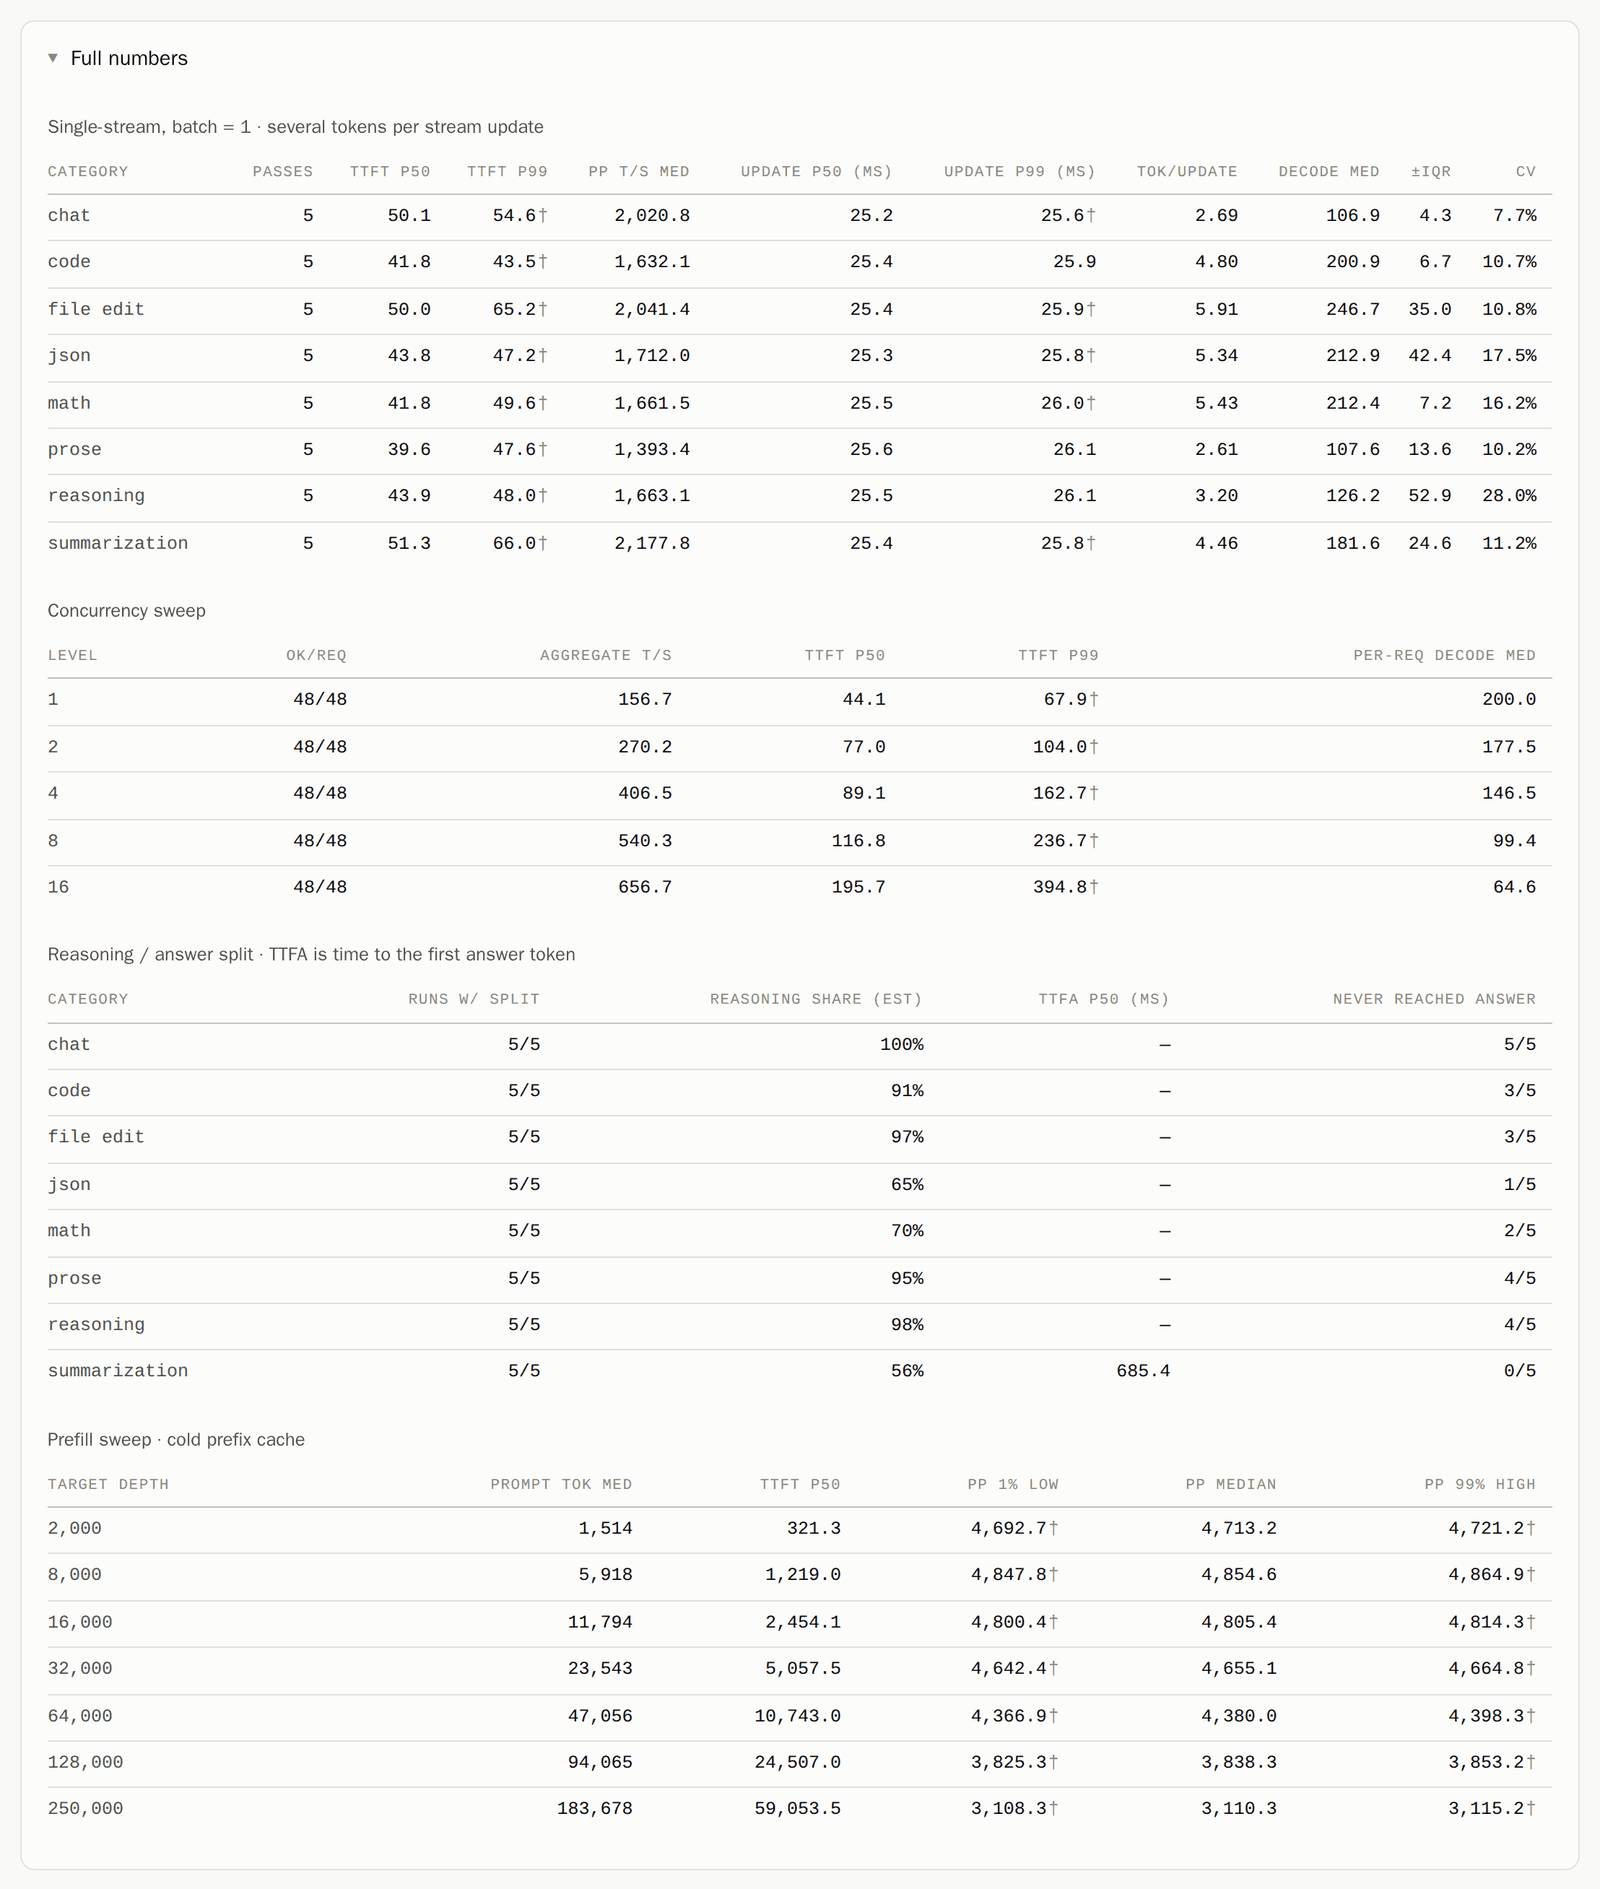
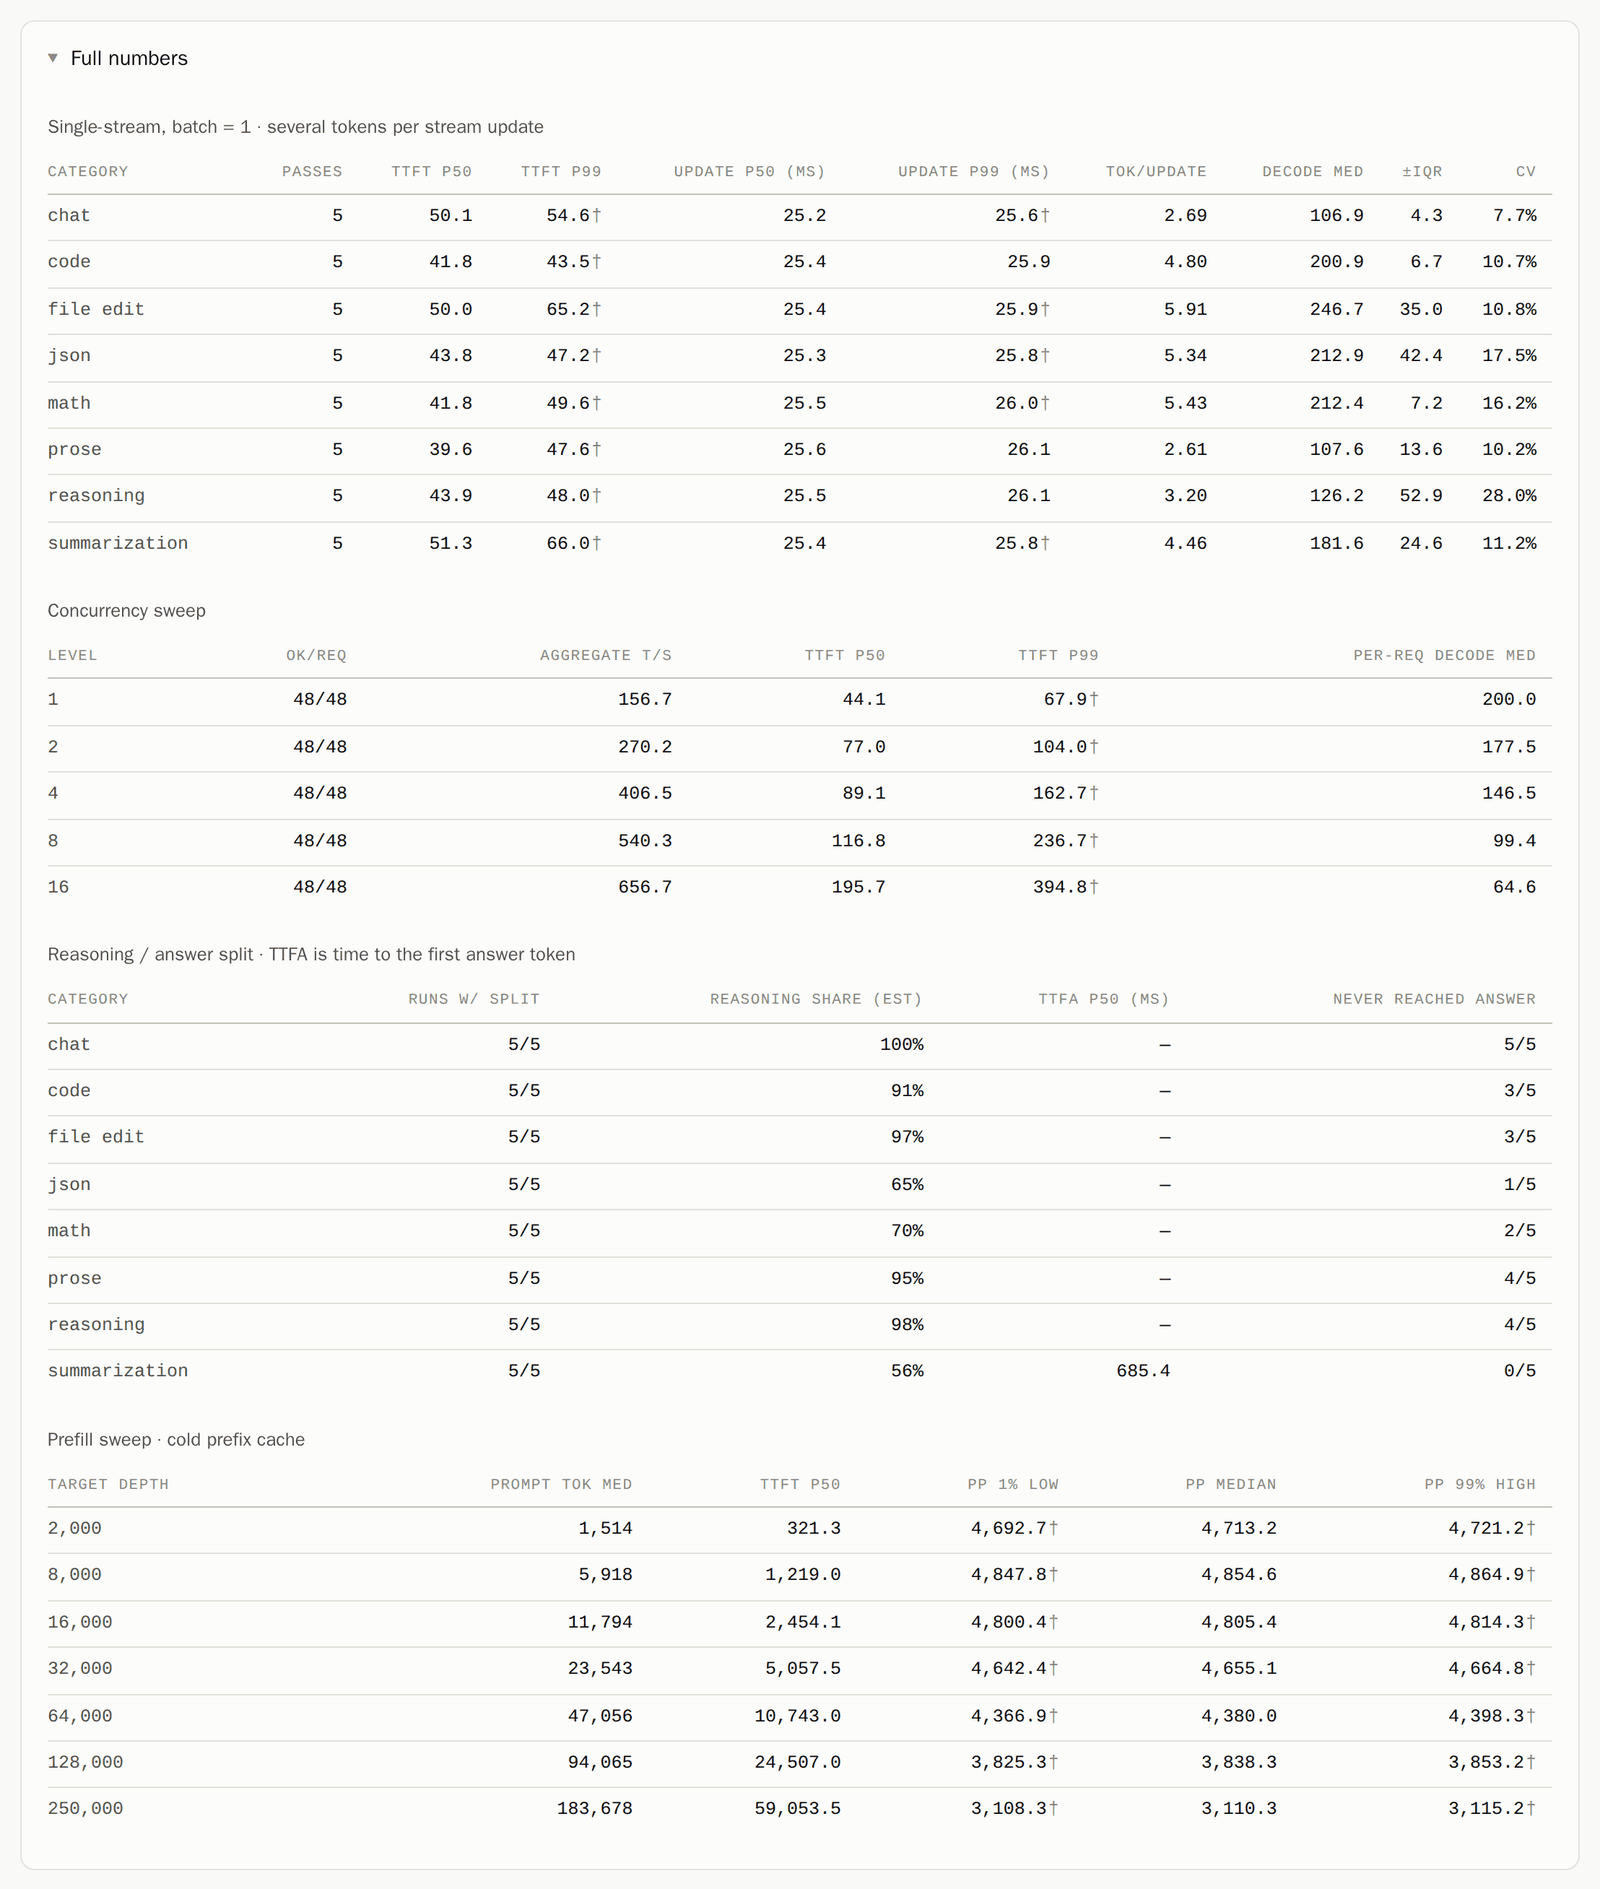
report: drop PP t/s from the single-stream table
Prompt tokens / TTFT is a fair prefill figure only when the prompt is deep
enough that prefill dominates TTFT. Over the single-stream corpus it is not:
TTFT there is mostly fixed per-request overhead, so the column read far low —
2,021 t/s for `chat` against 4,713 t/s at the 2K depth of the prefill sweep on
the same run.

Removed from the markdown and HTML single-stream tables (both the batched and
the one-token-per-update shapes) and from the derived row that fed them. The
prefill sweep is untouched, and per-run `pp_tps` is still recorded, so saved
results re-render under the new layout with no loss.

Docs and the committed example report follow.

Claude-Session: https://claude.ai/code/session_01VfNWrSzc2QgaCWzJJELSuQ

diff --git a/docs/example-report.html b/docs/example-report.html
@@ -209,16 +209,16 @@
     <div class="tscroll">
       <table>
         <caption>Single-stream, batch = 1 · several tokens per stream update</caption>
-        <thead><tr><th>category</th><th>passes</th><th>TTFT p50</th><th>TTFT p99</th><th>PP t/s med</th><th>update p50 (ms)</th><th>update p99 (ms)</th><th>tok/update</th><th>decode med</th><th>±IQR</th><th>CV</th></tr></thead>
+        <thead><tr><th>category</th><th>passes</th><th>TTFT p50</th><th>TTFT p99</th><th>update p50 (ms)</th><th>update p99 (ms)</th><th>tok/update</th><th>decode med</th><th>±IQR</th><th>CV</th></tr></thead>
         <tbody>
-<tr><td>chat</td><td>5</td><td>50.1</td><td>54.6<span class="thin" title="under-sampled percentile — see the note below the tables">†</span></td><td>2,020.8</td><td>25.2</td><td>25.6<span class="thin" title="under-sampled percentile — see the note below the tables">†</span></td><td>2.69</td><td>106.9</td><td>4.3</td><td>7.7%</td></tr>
-<tr><td>code</td><td>5</td><td>41.8</td><td>43.5<span class="thin" title="under-sampled percentile — see the note below the tables">†</span></td><td>1,632.1</td><td>25.4</td><td>25.9</td><td>4.80</td><td>200.9</td><td>6.7</td><td>10.7%</td></tr>
-<tr><td>file edit</td><td>5</td><td>50.0</td><td>65.2<span class="thin" title="under-sampled percentile — see the note below the tables">†</span></td><td>2,041.4</td><td>25.4</td><td>25.9<span class="thin" title="under-sampled percentile — see the note below the tables">†</span></td><td>5.91</td><td>246.7</td><td>35.0</td><td>10.8%</td></tr>
-<tr><td>json</td><td>5</td><td>43.8</td><td>47.2<span class="thin" title="under-sampled percentile — see the note below the tables">†</span></td><td>1,712.0</td><td>25.3</td><td>25.8<span class="thin" title="under-sampled percentile — see the note below the tables">†</span></td><td>5.34</td><td>212.9</td><td>42.4</td><td>17.5%</td></tr>
-<tr><td>math</td><td>5</td><td>41.8</td><td>49.6<span class="thin" title="under-sampled percentile — see the note below the tables">†</span></td><td>1,661.5</td><td>25.5</td><td>26.0<span class="thin" title="under-sampled percentile — see the note below the tables">†</span></td><td>5.43</td><td>212.4</td><td>7.2</td><td>16.2%</td></tr>
-<tr><td>prose</td><td>5</td><td>39.6</td><td>47.6<span class="thin" title="under-sampled percentile — see the note below the tables">†</span></td><td>1,393.4</td><td>25.6</td><td>26.1</td><td>2.61</td><td>107.6</td><td>13.6</td><td>10.2%</td></tr>
-<tr><td>reasoning</td><td>5</td><td>43.9</td><td>48.0<span class="thin" title="under-sampled percentile — see the note below the tables">†</span></td><td>1,663.1</td><td>25.5</td><td>26.1</td><td>3.20</td><td>126.2</td><td>52.9</td><td>28.0%</td></tr>
-<tr><td>summarization</td><td>5</td><td>51.3</td><td>66.0<span class="thin" title="under-sampled percentile — see the note below the tables">†</span></td><td>2,177.8</td><td>25.4</td><td>25.8<span class="thin" title="under-sampled percentile — see the note below the tables">†</span></td><td>4.46</td><td>181.6</td><td>24.6</td><td>11.2%</td></tr>
+<tr><td>chat</td><td>5</td><td>50.1</td><td>54.6<span class="thin" title="under-sampled percentile — see the note below the tables">†</span></td><td>25.2</td><td>25.6<span class="thin" title="under-sampled percentile — see the note below the tables">†</span></td><td>2.69</td><td>106.9</td><td>4.3</td><td>7.7%</td></tr>
+<tr><td>code</td><td>5</td><td>41.8</td><td>43.5<span class="thin" title="under-sampled percentile — see the note below the tables">†</span></td><td>25.4</td><td>25.9</td><td>4.80</td><td>200.9</td><td>6.7</td><td>10.7%</td></tr>
+<tr><td>file edit</td><td>5</td><td>50.0</td><td>65.2<span class="thin" title="under-sampled percentile — see the note below the tables">†</span></td><td>25.4</td><td>25.9<span class="thin" title="under-sampled percentile — see the note below the tables">†</span></td><td>5.91</td><td>246.7</td><td>35.0</td><td>10.8%</td></tr>
+<tr><td>json</td><td>5</td><td>43.8</td><td>47.2<span class="thin" title="under-sampled percentile — see the note below the tables">†</span></td><td>25.3</td><td>25.8<span class="thin" title="under-sampled percentile — see the note below the tables">†</span></td><td>5.34</td><td>212.9</td><td>42.4</td><td>17.5%</td></tr>
+<tr><td>math</td><td>5</td><td>41.8</td><td>49.6<span class="thin" title="under-sampled percentile — see the note below the tables">†</span></td><td>25.5</td><td>26.0<span class="thin" title="under-sampled percentile — see the note below the tables">†</span></td><td>5.43</td><td>212.4</td><td>7.2</td><td>16.2%</td></tr>
+<tr><td>prose</td><td>5</td><td>39.6</td><td>47.6<span class="thin" title="under-sampled percentile — see the note below the tables">†</span></td><td>25.6</td><td>26.1</td><td>2.61</td><td>107.6</td><td>13.6</td><td>10.2%</td></tr>
+<tr><td>reasoning</td><td>5</td><td>43.9</td><td>48.0<span class="thin" title="under-sampled percentile — see the note below the tables">†</span></td><td>25.5</td><td>26.1</td><td>3.20</td><td>126.2</td><td>52.9</td><td>28.0%</td></tr>
+<tr><td>summarization</td><td>5</td><td>51.3</td><td>66.0<span class="thin" title="under-sampled percentile — see the note below the tables">†</span></td><td>25.4</td><td>25.8<span class="thin" title="under-sampled percentile — see the note below the tables">†</span></td><td>4.46</td><td>181.6</td><td>24.6</td><td>11.2%</td></tr>
         </tbody>
       </table>
       <table>

diff --git a/betterbench/report.py b/betterbench/report.py
@@ -62,9 +62,8 @@ def _collect(recs: list[dict]):
     gaps = [x for r in ok for x in run_gaps_ms(r)]
     comp = [r.get("completion_tokens") or 0 for r in ok]
     chunks = [r.get("n_chunks") or 0 for r in ok]
-    pp = [r["pp_tps"] for r in ok if r.get("pp_tps")]
     batched = sum(1 for r in ok if run_is_batched(r))
-    return ttft, dtps, gaps, comp, chunks, pp, batched
+    return ttft, dtps, gaps, comp, chunks, batched
 
 
 def _fmt(x, unit=""):
@@ -80,11 +79,10 @@ def _fmt2(x, unit=""):
 
 
 def _category_row(cat: str, recs: list[dict]) -> dict:
-    ttft, dtps, gaps, comp, chunks, pp, batched = _collect(recs)
+    ttft, dtps, gaps, comp, chunks, batched = _collect(recs)
     ttft_d = summarize(ttft)
     dtps_d = summarize(dtps)
     gap_d = summarize(gaps)
-    pp_d = summarize(pp)
     n_ok = len([r for r in recs if r.get("ok")])
     tot_chunks = int(np.sum(chunks)) if chunks else 0
     row = {
@@ -97,7 +95,6 @@ def _category_row(cat: str, recs: list[dict]) -> dict:
         "runs": n_ok,
         "tokens": int(np.sum(comp)) if comp else 0,
         "ttft_p50": ttft_d.median, "ttft_p99": ttft_d.p99,
-        "pp_med": pp_d.median,
         # Measured, always present: the wall-clock gap between stream updates.
         "update_p50": gap_d.median if gaps else None,
         "update_p99": gap_d.p99 if gaps else None,
@@ -309,11 +306,11 @@ def render_markdown(results: dict) -> str:
                      "p50/p99** is the measured wall-clock gap between updates "
                      "(p99 is the stutter); **tok/update** is how many tokens land "
                      "per update. TTFT in ms; decode = per-run tok/s.\n")
-            L.append("| category | passes | TTFT p50 | TTFT p99 | PP t/s (med) | update p50 (ms) | update p99 (ms) | tok/update | decode t/s (med) | ±IQR | CV |")
-            L.append("|---|--:|--:|--:|--:|--:|--:|--:|--:|--:|--:|")
+            L.append("| category | passes | TTFT p50 | TTFT p99 | update p50 (ms) | update p99 (ms) | tok/update | decode t/s (med) | ±IQR | CV |")
+            L.append("|---|--:|--:|--:|--:|--:|--:|--:|--:|--:|")
             for r in rows:
                 L.append(f"| {r['category']} | {r['runs']} | {_fmt(r['ttft_p50'])} | "
-                         f"{_gate(r['ttft_p99'], r['ttft_p99_ok'])} | {_fmt(r.get('pp_med'))} | "
+                         f"{_gate(r['ttft_p99'], r['ttft_p99_ok'])} | "
                          f"{_fmt(r['update_p50'])} | {_gate(r['update_p99'], r['tail_ok'])} | "
                          f"{_fmt2(r['tok_per_update'])} | {_fmt(r['decode_med'])} | "
                          f"{_fmt(r['decode_iqr'])} | {r['decode_cv']*100:.1f}% |")
@@ -322,11 +319,11 @@ def render_markdown(results: dict) -> str:
                      "**median**, **99% high** = fastest. This server streams one token "
                      "per update, so the update gap *is* the inter-token latency. "
                      "TTFT in ms; decode = per-run tok/s.\n")
-            L.append("| category | passes | TTFT p50 | TTFT p99 | PP t/s (med) | ITL 1% low | ITL median | ITL 99% high | decode t/s (med) | ±IQR | CV |")
-            L.append("|---|--:|--:|--:|--:|--:|--:|--:|--:|--:|--:|")
+            L.append("| category | passes | TTFT p50 | TTFT p99 | ITL 1% low | ITL median | ITL 99% high | decode t/s (med) | ±IQR | CV |")
+            L.append("|---|--:|--:|--:|--:|--:|--:|--:|--:|--:|")
             for r in rows:
                 L.append(f"| {r['category']} | {r['runs']} | {_fmt(r['ttft_p50'])} | "
-                         f"{_gate(r['ttft_p99'], r['ttft_p99_ok'])} | {_fmt(r.get('pp_med'))} | "
+                         f"{_gate(r['ttft_p99'], r['ttft_p99_ok'])} | "
                          f"{_gate(r['itl_low1'], r['tail_ok'])} | {_fmt(r['itl_med'])} | "
                          f"{_gate(r['itl_high99'], r['tail_ok'])} | {_fmt(r['decode_med'])} | "
                          f"{_fmt(r['decode_iqr'])} | {r['decode_cv']*100:.1f}% |")

diff --git a/betterbench/html_report.py b/betterbench/html_report.py
@@ -186,11 +186,11 @@ def _tables(rows, conc, pre, env, batched=False, rrows=()) -> list | str:
     if rows and batched:
         out.append(_table(
             "Single-stream, batch = 1 · several tokens per stream update",
-            ["category", "passes", "TTFT p50", "TTFT p99", "PP t/s med",
+            ["category", "passes", "TTFT p50", "TTFT p99",
              "update p50 (ms)", "update p99 (ms)", "tok/update", "decode med",
              "±IQR", "CV"],
             [[_esc(r["category"].replace("_", " ")), r["runs"], _fmt(r["ttft_p50"]),
-              _gate(r["ttft_p99"], r["ttft_p99_ok"]), _fmt(r["pp_med"]),
+              _gate(r["ttft_p99"], r["ttft_p99_ok"]),
               _fmt(r["update_p50"]), _gate(r["update_p99"], r["tail_ok"]),
               _fmt(r["tok_per_update"], 2),
               _fmt(r["decode_med"]), _fmt(r["decode_iqr"]),
@@ -199,10 +199,10 @@ def _tables(rows, conc, pre, env, batched=False, rrows=()) -> list | str:
     elif rows:
         out.append(_table(
             "Single-stream, batch = 1",
-            ["category", "passes", "TTFT p50", "TTFT p99", "PP t/s med",
+            ["category", "passes", "TTFT p50", "TTFT p99",
              "ITL 1% low", "ITL med", "ITL 99% high", "decode med", "±IQR", "CV"],
             [[_esc(r["category"].replace("_", " ")), r["runs"], _fmt(r["ttft_p50"]),
-              _gate(r["ttft_p99"], r["ttft_p99_ok"]), _fmt(r["pp_med"]),
+              _gate(r["ttft_p99"], r["ttft_p99_ok"]),
               _gate(r["itl_low1"], r["tail_ok"]), _fmt(r["itl_med"]),
               _gate(r["itl_high99"], r["tail_ok"]), _fmt(r["decode_med"]),
               _fmt(r["decode_iqr"]), _fmt((r["decode_cv"] or 0) * 100, 1, "%")]

diff --git a/README.md b/README.md
@@ -80,8 +80,10 @@ answer.
 
 **Prompt-processing (prefill) sweep** — prefill throughput (prompt tokens ÷ TTFT) at
 increasing input depth (2K → 64K), with a cold prefix cache and tiny decode, so you see how
-prompt processing scales for long-context / RAG / big-file workloads. A `PP t/s` column also
-appears per category in the single-stream table.
+prompt processing scales for long-context / RAG / big-file workloads. This sweep is the only
+place BetterBench reports prefill throughput: on the short prompts of the single-stream
+corpus, TTFT is mostly fixed per-request overhead rather than prefill work, so a per-category
+`PP t/s` understates the real figure by more than 2x. That column is gone.
 
 **Run length you control** — `--passes N` sets the measured passes per category (default 20)
 and `--warmup N` the discarded ones; both override whatever a `--config` file says. `--quick`
@@ -171,7 +173,7 @@ under-sampled percentile is labelled wherever it appears.
 
 <p align="center">
   <img src="docs/img/report-tables.png" width="900"
-       alt="The Full numbers section: single-stream per-category table with TTFT, prefill,
+       alt="The Full numbers section: single-stream per-category table with TTFT p50/p99,
             update p50/p99, tokens per update, decode median, IQR and CV; the concurrency
             sweep; the reasoning/answer split with TTFA; and the prefill sweep by depth.">
 </p>

diff --git a/CHANGELOG.md b/CHANGELOG.md
@@ -1,5 +1,21 @@
 # Changelog
 
+## Unreleased
+
+### `PP t/s` is gone from the single-stream table
+
+The single-stream phase reported a per-category `PP t/s (med)` — prompt tokens ÷ TTFT over the
+corpus prompts. On prompts that short, TTFT is dominated by fixed per-request overhead (queue,
+tokenize, the first decode step) rather than by prefill work, so the number came out far below
+what the server actually does: on the same run, `chat` read 2,021 t/s in the single-stream
+table against 4,713 t/s at the 2K depth of the prefill sweep. It was a wrong number in a
+table of right ones, so it has been dropped from both the markdown and HTML reports.
+
+The **prefill sweep is unchanged** and remains the place to read prompt processing — cold
+prefix cache, synthesised prompts at increasing depth, 1% low / median / 99% high. Nothing
+changes in `results.json`: per-run `pp_tps` is still recorded, so older results re-render
+under the new layout and no history is lost.
+
 ## 0.4.0
 
 ### Run one phase at a time
